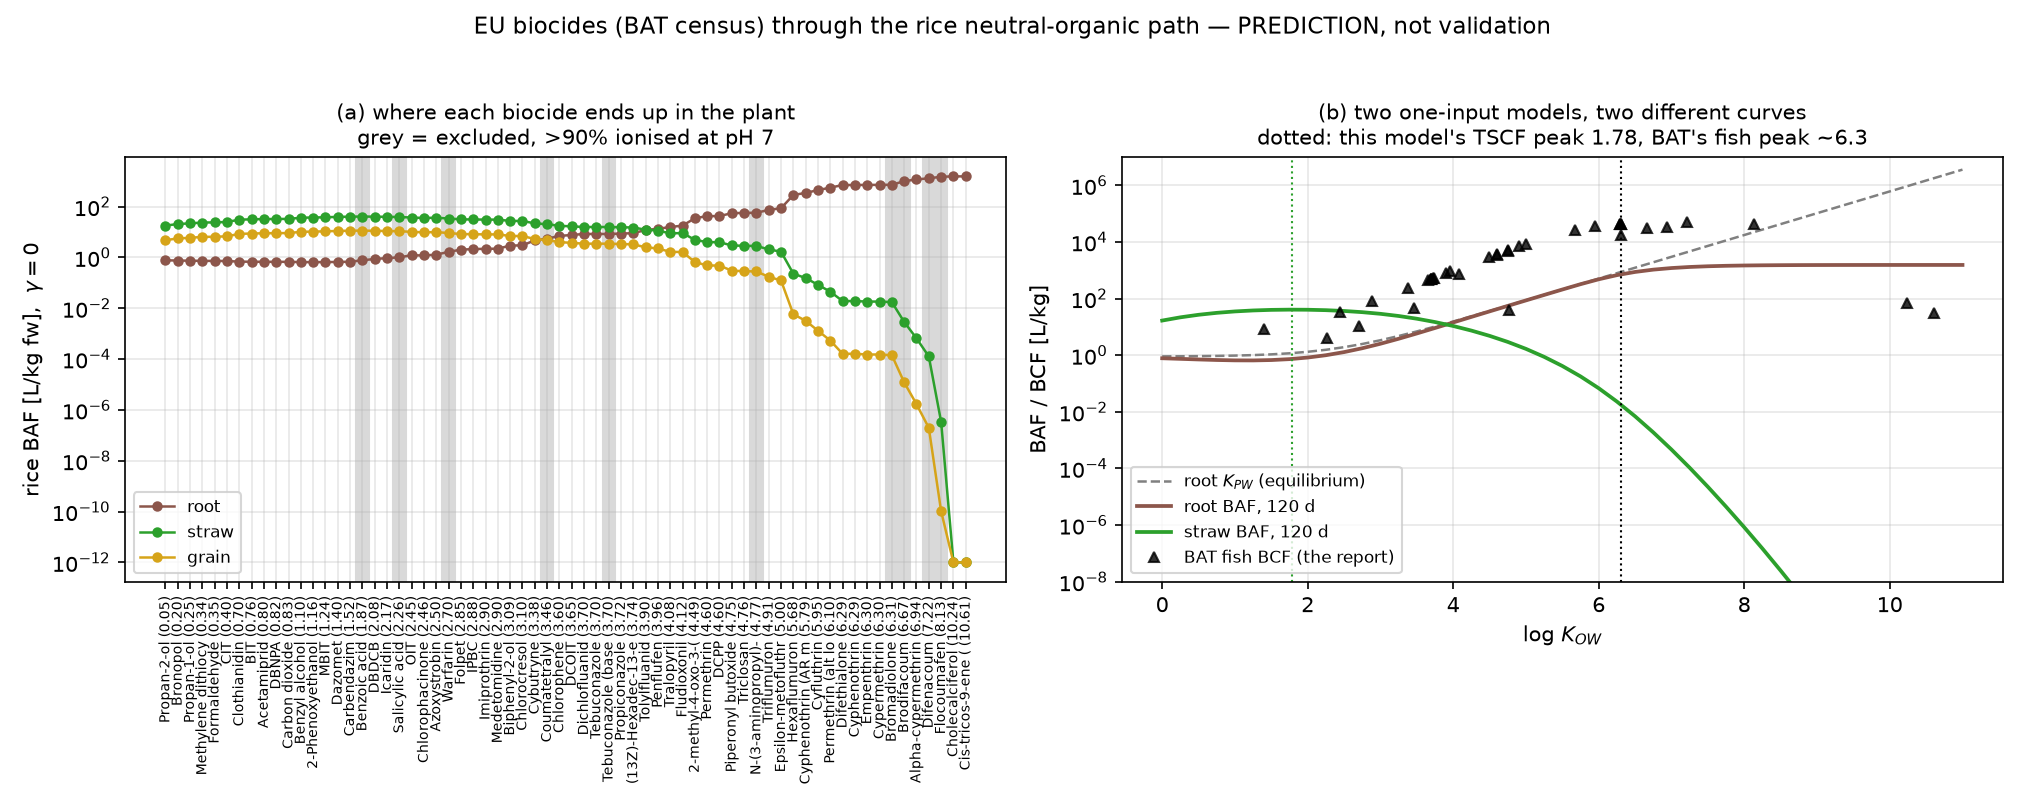
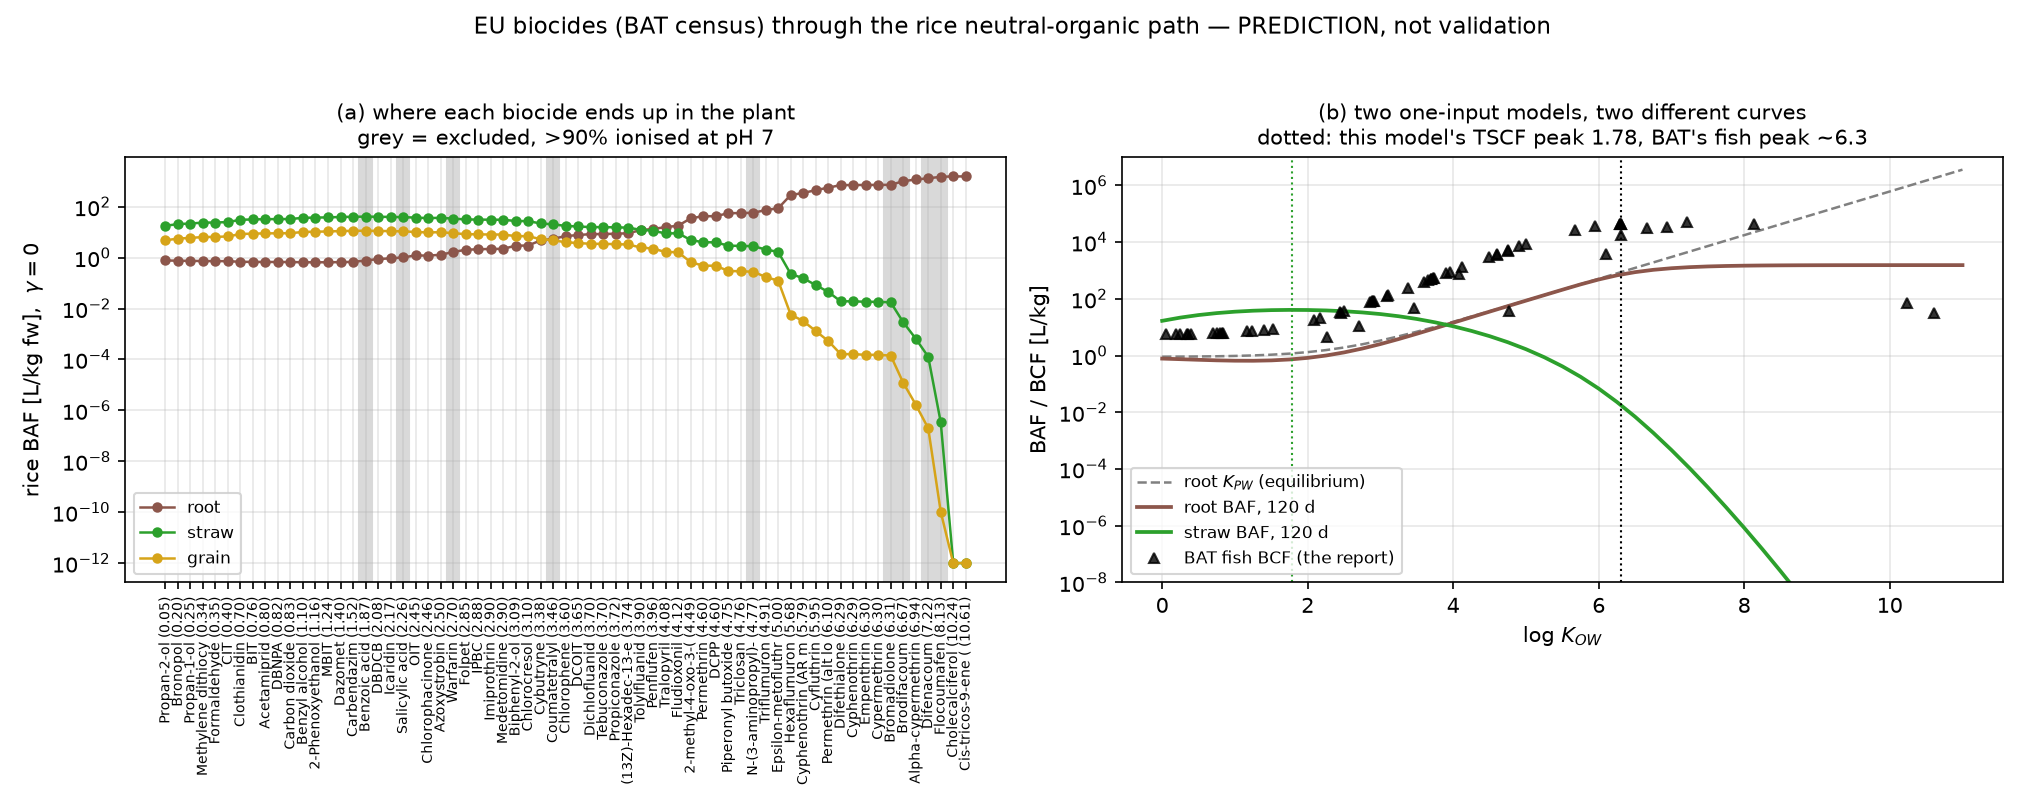
Take the BAT project's audited classes, and hand back a count that does not check out
Three files arrived: the audited provenance for all 61 substances BAT
entered, the BPC class and fish BCF for the same 61, and an updated
collection sheet for the 106 it never entered.

VERIFIED FIRST. Of 101 transcribed values checked against their source,
100 match. The one difference is salicylic acid's Scenario A: the report
printed 4, the export gives 4.35 -- the transcription was faithful to the
report and the export is more precise. Corrected.

TEBUCONAZOLE RESOLVED, AND THEY CAUGHT MY ERROR. The row had been run
both ways because is_acid=TRUE sat beside ionisation_class=base with no
percentage to arbitrate. BAT entered it as an ACID at pKa 12.6205; the
base reading is a DIFFERENT pKa (3.516), not the same number re-labelled,
and both are >99.9% neutral at pH 7 so they cannot diverge. Pairing
is_acid=FALSE with 12.6205 -- exactly what the second row did -- is the
one combination that is wrong, reading as 100% ionised. Collapsed to one
row with the resolution in the note and a test that stops it re-splitting.

CLASSES AND BCF FOR ALL 61, with their four caveats kept per row in a new
bat_caveat column: fifteen empty Scenario B cells are the fact (those
substances are outside BAT's range so no metabolic rate was ever
entered), tebuconazole and DCOIT have no opinion at all, cyphenothrin's
nB came from its opinion's metabolite table, and the triamine's BAT
output is uninterpretable.

TWO EXCLUSIONS FROM THE RANK CORRELATION, stated in the code rather than
[…]

diff --git a/tests/test_bat_census_biocides.py b/tests/test_bat_census_biocides.py
@@ -71,27 +71,61 @@ def test_derived_pka_were_superseded_by_sourced_ones(rows):
         assert abs(BC.pka_from_fraction(pct / 100.0) - pka) < 0.05, name
 
 
-def test_the_unresolved_row_is_run_both_ways(rows, screened):
-    """Tebuconazole's export row gives is_acid=TRUE but ionisation_class=base and
-    no percentage to arbitrate, and the two readings give OPPOSITE scope verdicts.
-    Neither is asserted: both are rows, and they must land on opposite sides."""
-    v = {o["substance"]: o["verdict"] for o in screened}
-    assert v["Tebuconazole"] == "inside"
-    assert v["Tebuconazole (base reading)"].startswith("EXCLUDED")
-    note = [r for r in rows if r["substance"] == "Tebuconazole"][0]["note"]
-    assert "UNRESOLVED" in note
+def test_tebuconazole_pairs_its_pka_with_the_right_charge(rows, screened):
+    """This row was briefly run BOTH ways, because the export gave is_acid=TRUE
+    beside ionisation_class=base with no percentage to arbitrate. The BAT project
+    resolved it: BAT entered it as an ACID at pKa 12.6205, and the base reading is
+    a DIFFERENT pKa (3.516), not the same number re-labelled. Both are >99.9%
+    neutral at pH 7, so the readings cannot diverge -- and pairing is_acid=FALSE
+    with 12.6205, which the two-row treatment did, is the one combination that is
+    simply wrong: it reads as 100% ionised. One row, acid, and the note keeps the
+    resolution so nobody re-splits it."""
+    assert not [r for r in rows if "base reading" in r["substance"]]
+    teb = [r for r in rows if r["substance"] == "Tebuconazole"][0]
+    assert teb["is_acid"].strip().upper() == "TRUE"
+    assert BC._f(teb, "pKa") == pytest.approx(12.6205)
+    assert BC._f(teb, "pct_ionised_pH7") < 0.001
+    assert "RESOLVED" in teb["note"] and "3.516" in teb["note"]
+    assert {o["verdict"] for o in screened if o["substance"] == "Tebuconazole"} == {"inside"}
 
 
-def test_bat_entered_substances_carry_no_comparison(rows):
-    """The 21 substances BAT entered but the report never named individually are
-    predictions with nothing to compare against: no BPC class, no fish BCF. If one
-    ever acquired a bat_A_fish it would silently enter the rank correlation."""
+def test_the_rank_correlation_excludes_what_cannot_be_ranked(rows):
+    """Two exclusions, both stated in the script rather than silent: a substance
+    carrying a second log Kow row would otherwise be weighted twice against one
+    BAT value, and the triamine's BAT output is marked uninterpretable by the
+    project that produced it (three charges against a tool taking one pKa)."""
+    src = open(os.path.join(_ROOT, "validation", "bat_census_biocides.py")).read()
+    assert "not interpretable" in src and "alt log Kow" in src
+    caveated = [r for r in rows if "not interpretable" in (r.get("bat_caveat") or "")]
+    assert len(caveated) == 1
+    assert "diamine" in caveated[0]["substance"].lower()
+    # and the variant rows really do share a BAT value with their parent
+    for stem in ("Permethrin", "Cyphenothrin"):
+        fam = [r for r in rows if r["substance"].startswith(stem)]
+        assert len(fam) == 2, stem
+        assert len({r["cas"] for r in fam}) == 1, stem
+
+
+def test_bat_entered_substances_now_carry_their_comparison(rows):
+    """The 21 substances BAT entered but the report never named individually
+    arrived without a BPC class or a fish BCF, so they were predictions with
+    nothing to compare against. The BAT project then supplied both for all 61 it
+    ran, which is what took the rank correlation from 20 substances to ~59. Two of
+    the 61 still have no class because no opinion was ever issued for them -- that
+    is a fact about the regulator, not a gap, and it is carried in the caveat."""
     extra = [r for r in rows if r["section"] == "EXPORT_entered_into_BAT"]
     assert len(extra) >= 20
     for r in extra:
-        assert not r["bpc_class"].strip(), r["substance"]
-        assert not r["bat_A_fish"].strip(), r["substance"]
         assert r["cas"].strip(), r["substance"]
+        assert r["bat_A_fish"].strip(), r["substance"]
+        if not r["bpc_class"].strip():
+            assert "NO BPC OPINION" in r["bat_caveat"], r["substance"]
+    # the class distribution has to match what the report itself states
+    cls = [r["bpc_class"].strip() for r in rows if r["bpc_class"].strip()]
+    assert cls.count("B") + cls.count("vB") >= 7        # the seven the opinions call B/vB
+    noscen_b = [r for r in rows if r["bat_A_fish"].strip() and not r["bat_B_fish"].strip()
+                and "no Scenario B run" in (r["bat_caveat"] or "")]
+    assert len(noscen_b) >= 14   # empty Scenario B is the fact, not a missing value
 
 
 def test_hh_helpers_are_inverses():

diff --git a/validation/bat_census_biocides.py b/validation/bat_census_biocides.py
@@ -274,7 +274,8 @@ def run_all(screened, quiet=False):
         pKa = o["pKa"] if o["f_n"] >= F_N_FLOOR else None   # neutral form for the excluded
         rec = dict(substance=o["substance"], log_kow=o["log_kow"], verdict=o["verdict"],
                    f_n=o["f_n"], pKa_used=pKa, km_half_life_d=km,
-                   bpc=r["bpc_class"], bat_A=_f(r, "bat_A_fish"), bat_B=_f(r, "bat_B_fish"))
+                   bpc=r["bpc_class"], bat_A=_f(r, "bat_A_fish"), bat_B=_f(r, "bat_B_fish"),
+                   bat_caveat=(r.get("bat_caveat") or "").strip())
         p = run_one(o["log_kow"], o["substance"], pKa=pKa, is_acid=o["is_acid"])
         rec.update({f"P_{k}": p[k] for k in
                     ("TSCF", "K_PW_root", "root", "stem", "leaf", "grain", "straw")})
@@ -449,7 +450,20 @@ def cross_model(runs, fast=False, quiet=False):
                             kpw=np.array([ND.k_pw(float(l), **_root_wl()) for l in grid]))
 
     # (e) does a fish BCF rank these substances the way a rice model does?
-    pairs = [(r["bat_A"], r["P_root"], r["P_straw"]) for r in runs if r["bat_A"]]
+    #     Two exclusions, both stated rather than silent. A SUBSTANCE may appear
+    #     twice here (permethrin and cyphenothrin each carry a second row for their
+    #     assessment report's other measured log Kow); the two rows share one BAT
+    #     value, so counting both would weight that substance twice. And the BAT
+    #     project marks the triamine's own output uninterpretable -- three charges
+    #     at environmental pH against a tool that takes one pKa -- and drops it from
+    #     every tally in its report; a number nobody can read is not a rank.
+    def _pairable(r):
+        if not r["bat_A"]:
+            return False
+        if "alt log Kow" in r["substance"] or "AR measured" in r["substance"]:
+            return False
+        return "not interpretable" not in r.get("bat_caveat", "")
+    pairs = [(r["bat_A"], r["P_root"], r["P_straw"]) for r in runs if _pairable(r)]
     if len(pairs) >= 4:
         from scipy.stats import spearmanr
         a = np.array(pairs, float)
